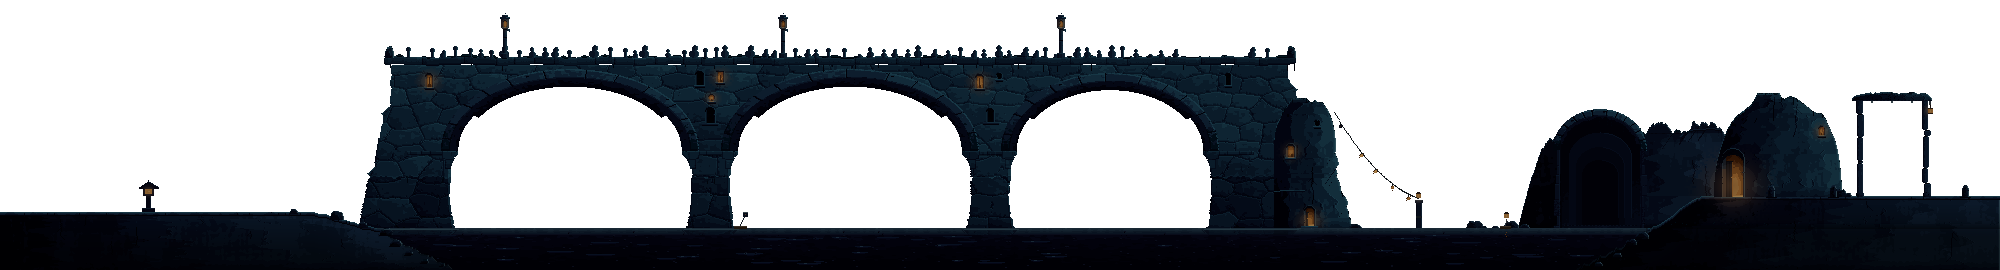
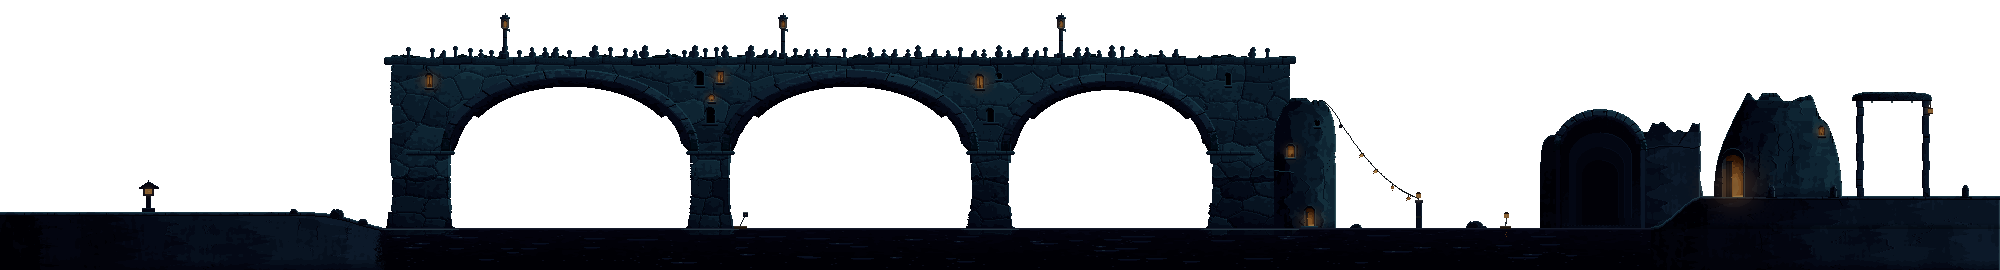
Update rules

diff --git a/云/tools/river_bank_moon_art.py b/云/tools/river_bank_moon_art.py
@@ -1710,7 +1710,8 @@ def crates_frames():
     """岸边一排箱子（原文 74），按月夜河岸的画法重画（第三版：作者嫌原来的亮木箱突兀）：
     泡过水的旧木箱，和码头石头一个调子——暗蓝灰，只有上沿、右沿一条月光；一块旧油布搭在后面那只上，一根绳捆着；
     妮芙的标签是几张很小的旧纸片（字是一道细线，不画点，免得像眼睛）。
-    帧和尺寸跟旧的一样（76×58，0/1 = 箱子后面露出妮芙的尾巴在动，2 = 没有尾巴）。尾巴归美术组画，这里还是一块占位。"""
+    尺寸跟旧的一样（76×58，上面空 14 行），只有一帧。10-31：以前 0/1 两帧是箱子后面一条平涂的蓝色占位尾巴，
+    没设状态时引擎把几帧轮着播，F8 自由探索里妮芙不在、箱子后面却立着那条尾巴——删掉了。妮芙（连尾巴）是剧本 show 出来的人物。"""
     W_, H_ = 76, 44
     wood = [B(.07, .018, 262), B(.095, .02, 258), B(.12, .022, 254), B(.155, .024, 250), B(.2, .026, 246),
             B(.26, .028, 242)]
@@ -1745,22 +1746,9 @@ def crates_frames():
             box.px(x, y, tarp[k])
     rope_line(box, 2, 24, 26, 26, 1, B(.24, .03, 70))
     rope_line(box, 48, 22, 74, 21, 1, B(.24, .03, 70))
-    frames = []
-    tail = rca.C(0.62, 0.11, 262)           # 妮芙尾巴的占位（美术组的图来了换掉）
-    tail_hi = rca.C(0.74, 0.08, 255)
-    for k in range(3):
-        cv = Cv(W_, H_ + 14)
-        cv.paste(box.a, 0, 14)
-        if k == 2:
-            frames.append(cv.a)
-            continue
-        lean = (-2, 2)[k]
-        pts = [(40, 40), (44, 40), (45 + lean, 22), (50 + lean * 2, 12), (44 + lean, 14), (38 + lean * 2, 12), (41 + lean, 22)]
-        cv.poly(pts, tail)
-        cv.line([(42 + lean, 24), (43 + lean, 38)], tail_hi)
-        cv.paste(box.a[24:44, 26:48], 26, 38)
-        frames.append(cv.a)
-    return frames
+    cv = Cv(W_, H_ + 14)
+    cv.paste(box.a, 0, 14)
+    return [cv.a]
 
 
 def float_crate_frames():
@@ -1792,7 +1780,7 @@ def float_crate_frames():
                     cv.a[y, x, :3] = mixc(tuple(int(v) for v in cv.a[y, x, :3]), B(.08, .03, 238), 0.55)
     for x in range(1, W_ - 1):                         # 水线
         if _hash01(x, wl, 13) > 0.3:
-            cv.px(x, wl, SILVER[1] if x % 4 else SILVER[2])
+            cv.px(x, wl, SILVER[2] if _hash01(x // 2, wl, 14) > 0.75 else SILVER[1])   # 亮的几格随机（以前每 4 格一个）
     return [cv.a]
 
 
@@ -1803,8 +1791,8 @@ def objects():
     out.append(("river_bank_plane", pf, 40, WL + 2 - 96 + 6, {"states": {"default": 0, "beached": 1, "straps_drying": 2,
                                                                           "fixed": 3}}))
     cf = crates_frames()
-    out.append(("river_bank_crates", cf, CRATES, G - cf[0].shape[0], {"ms": 200, "states": {"default": 2, "tail": [0, 1],
-                                                                                           "tail_still": 2}}))
+    out.append(("river_bank_crates", cf, CRATES, G - cf[0].shape[0], {"states": {"default": 0, "tail_still": 0}}))
+    # （tail_still 留着名字：剧本 start_river 还有一步 prop river_bank_crates tail_still，现在就是这唯一一帧）
     bf = [night(f.a, 0.5) for f in rca.box_frames()]       # 金属盒：暗一点，别成水上一块亮方块
     out.append(("river_bank_box", bf, STEPS_X + 68, WL - 12, {"states": {"default": 0, "sunk_shallow": 1}}))
     out.append(("river_bank_crate_float", float_crate_frames(), 18, WL - 11, {"states": {"default": 0}}))
@@ -2542,7 +2530,7 @@ def build_bank():
 def preview_bank(room, out: Path, house=None):
     out.mkdir(parents=True, exist_ok=True)
     fl = {f"river_bank_salvage_{k}": "float" for k in rca.SALVAGE}
-    shots = [(0, {}, 196, 1), (330, {}, 560, 1), (740, {"river_bank_crates": "tail"}, 880, 1), (880, fl, 1076, 1),
+    shots = [(0, {}, 196, 1), (330, {}, 560, 1), (740, {}, 880, 1), (880, fl, 1076, 1),
              (1330, {}, 1408, 1), (1330, {}, 1500, 0), (1740, {}, 1900, 1), (1840, {}, 2200, 1)]
     tiles = [Image.fromarray(render(room, BANK_DIR, c, st, cx, house=house, house_front=hf)) for c, st, cx, hf in shots]
     sheet = Image.new("RGB", (SW * 2 + 4, (SH + 4) * 4), (20, 20, 20))
